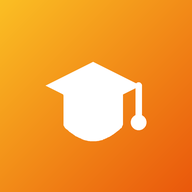
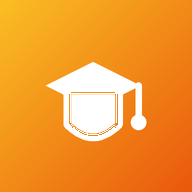
fix: 홈 수업 준비 한 길 폰 4칸 정돈, PWA 아이콘 모자 몸통 반투명→불투명(시작 화면 검정 현상)

Changed region(s): [[0.3438, 0.4688, 0.625, 0.6562], [0.375, 0.6562, 0.5938, 0.7188]]

diff --git a/src/pages/Home.tsx b/src/pages/Home.tsx
@@ -262,16 +262,16 @@ export default function Home() {
         </div>
       )}
 
-      <nav aria-label="수업 준비 한 길" className="home-rise -mt-6 mb-10 flex flex-wrap items-center gap-x-2 gap-y-2 text-[15px]">
-        <span className="font-bold text-on-surface-variant mr-1">수업 준비 한 길</span>
+      <nav aria-label="수업 준비 한 길" className="home-rise -mt-6 mb-10 grid grid-cols-4 gap-2 sm:flex sm:flex-wrap sm:items-center sm:gap-x-2 sm:gap-y-2 text-[15px]">
+        <span className="col-span-4 font-bold text-on-surface-variant sm:mr-1">수업 준비 한 길</span>
         {FLOW_STEPS.map((st, i) => (
-          <span key={st.label} className="flex items-center gap-2">
+          <span key={st.label} className="flex items-center gap-2 min-w-0">
             <button onClick={() => navigate(st.to, { state: { fromHome: true } })}
-              className="flex items-center gap-1.5 bg-surface-container-lowest border border-slate-200 dark:border-slate-700 rounded-full pl-2 pr-3.5 py-1.5 text-on-surface hover:border-primary hover:text-primary transition-colors">
-              <span className="w-5 h-5 grid place-items-center rounded-full bg-primary-container text-primary text-[13px] font-bold">{i + 1}</span>
-              {st.label}
+              className="w-full sm:w-auto flex flex-col sm:flex-row items-center gap-1 sm:gap-1.5 bg-surface-container-lowest border border-slate-200 dark:border-slate-700 rounded-2xl sm:rounded-full px-1 sm:pl-2 sm:pr-3.5 py-2.5 sm:py-1.5 text-on-surface text-center sm:text-left text-[14px] sm:text-[15px] leading-tight hover:border-primary hover:text-primary transition-colors">
+              <span className="w-6 h-6 sm:w-5 sm:h-5 shrink-0 grid place-items-center rounded-full bg-primary-container text-primary text-[13px] font-bold">{i + 1}</span>
+              <span className="[word-break:keep-all]">{st.label}</span>
             </button>
-            {i < FLOW_STEPS.length - 1 && <ArrowRight size={16} className="text-on-surface-variant" />}
+            {i < FLOW_STEPS.length - 1 && <ArrowRight size={16} className="hidden sm:block text-on-surface-variant" />}
           </span>
         ))}
       </nav>
